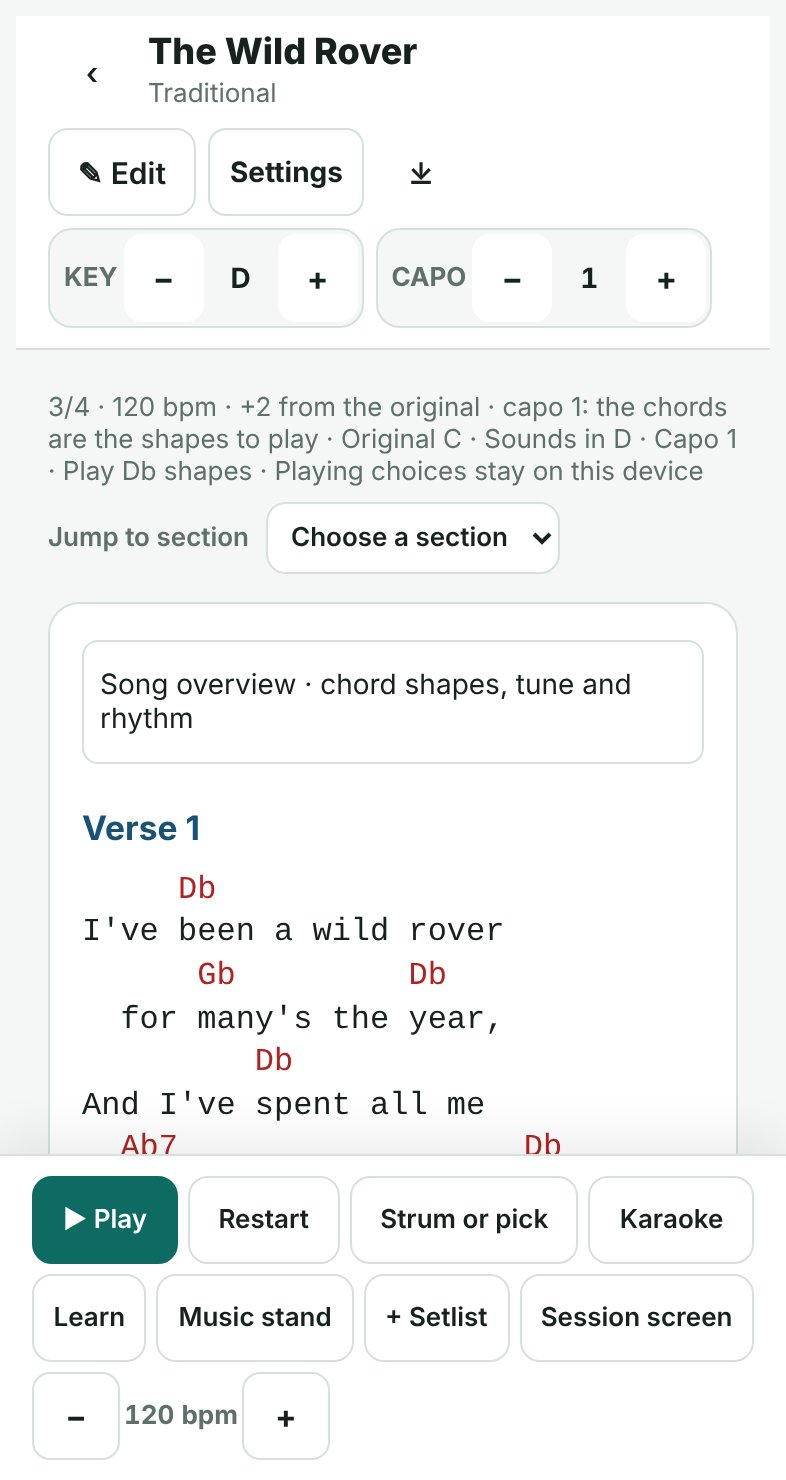
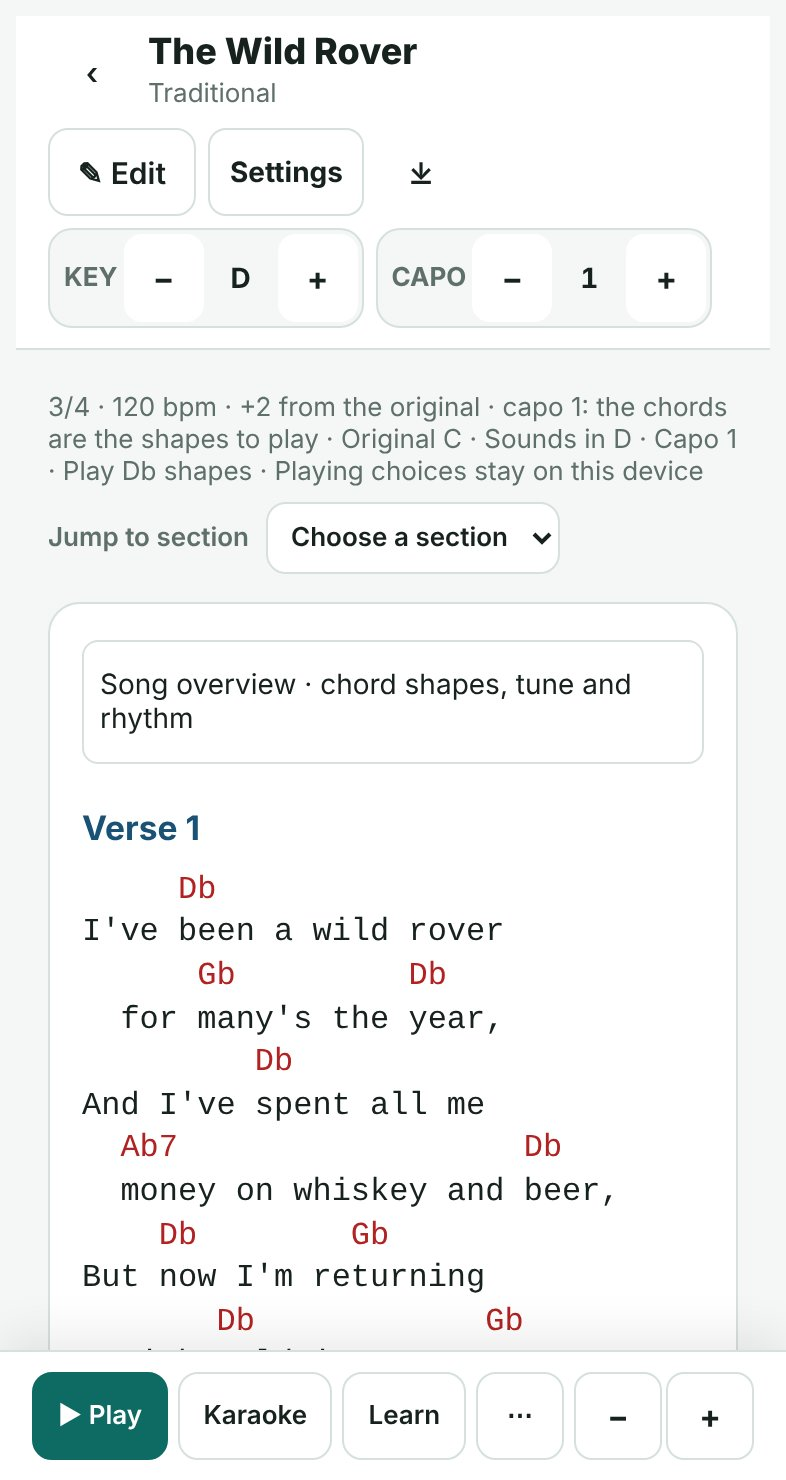
v4.99.11: web player: one row of play buttons on a phone; Repeat a section; offline note
Claude-Session: https://claude.ai/code/session_01UbrCRY8oACMXjLtCFCbaus

Changed region(s): [[0.0305, 0.777, 0.9466, 0.9946], [0.7023, 0.9324, 0.7328, 0.9635], [0.5802, 0.9324, 0.6107, 0.9635]]

diff --git a/web/app.html b/web/app.html
@@ -178,6 +178,7 @@ button { cursor: pointer; }
 .lib-more > summary::-webkit-details-marker { display: none; }
 .lib-more-items { position: absolute; z-index: 30; top: calc(100% + 6px); left: 0; display: flex; flex-direction: column; gap: 6px; padding: 8px; min-width: 230px; background: var(--surface); border: 1px solid var(--line); border-radius: 14px; box-shadow: 0 10px 30px rgba(0,0,0,.18); }
 .lib-more-items .btn { justify-content: flex-start; width: 100%; box-sizing: border-box; }
+.lib-more-note { margin: 2px 4px 0; font-size: 13px; color: var(--muted); max-width: 240px; }
 .library:has(#instrumentAsk:not([hidden])) .my-instrument { display: none; } /* asked once, not twice */
 .app-settings { max-width: 560px; }
 .app-settings #displaySettings { margin: 10px 0; }
@@ -402,12 +403,24 @@ dialog h2 { margin: 0 0 8px; font-size: 20px; }
   .practice-stage { padding: 16px 12px; }
 }
 
-/* a phone: the buttons on one row, the chord now and the tempo below (with Learn, they didn't fit) */
+/* 4.99.11: a phone: one row (Play, Karaoke, Learn, ⋯ and the tempo); ⋯ shows Restart, Music stand,
+   + Setlist and the rest on a second row. On a bigger screen ⋯ isn't needed: everything fits */
+#playerMore { display: none; }
+.player-extras { display: flex; flex-wrap: wrap; gap: 8px; padding-block: 8px 0; }
+.player-extras[hidden] { display: none; }
+.player-extras > .btn { flex: 1 1 auto; }
 @media (max-width: 600px) {
-  .player-row { flex-wrap: wrap; row-gap: 8px; }
-  .player-row > .btn { flex: 1 1 auto; padding-inline: 10px; }
+  .player-row { flex-wrap: nowrap; row-gap: 8px; }
+  .player-row > .btn { flex: 1 1 auto; padding-inline: 8px; min-width: 0; }
   .player-row .now { flex: 1 1 60%; }
+  #playerMore { display: inline-flex; flex: none; justify-content: center; }
+  #playerMore[aria-expanded="true"] { background: var(--ink); color: var(--surface); }
+  .player-row > .player-extra { display: none; }
+  .player:not(.active) .tempo .val { display: none; }
+  .player.active #playerMore { display: none; }
 }
+.section-repeat { display: inline-flex; align-items: center; gap: 6px; margin: 0 0 14px 10px; font-size: 13px; font-weight: 600; color: var(--muted); }
+.section-repeat[hidden] { display: none; }
 @media (max-width: 420px) {
   .now-chord { font-size: 28px; }
   #libTitle { font-size: 24px; }
@@ -497,6 +510,7 @@ dialog h2 { margin: 0 0 8px; font-size: 20px; }
           <label class="btn" for="updateInput" title="Song files (ukemusic, ChordPro, or chords above the words), a zipped songs folder, or a backup">Add songs from files…</label>
           <button id="cloudBtn" class="btn" type="button" hidden title="Keep your songs in Dropbox, in the desktop app's songs folder: changes here go there, and changes there come here">Dropbox…</button>
           <button id="backupBtn" class="btn" type="button" title="Every song in one file, to keep somewhere safe (iCloud Drive, Google Drive, your computer) and to bring changes back into the desktop app">Back up all songs</button>
+          <p id="offlineNote" class="lib-more-note" hidden></p>
         </div></details>
         <input id="updateInput" type="file" multiple hidden>
       </div>
@@ -560,7 +574,7 @@ dialog h2 { margin: 0 0 8px; font-size: 20px; }
     </header>
 
     <main id="songPanel" class="panel gutter">
-      <p id="songMeta" class="song-meta"></p><label class="section-jump" data-feature="sectionJump">Jump to section <select id="sectionJump"><option value="">Choose a section</option></select></label><button id="playHere" class="btn" type="button" hidden>Play from here</button>
+      <p id="songMeta" class="song-meta"></p><label class="section-jump" data-feature="sectionJump">Jump to section <select id="sectionJump"><option value="">Choose a section</option></select></label><label id="sectionRepeatRow" class="section-repeat" data-feature="sectionJump" hidden title="Play only this section, round and round, until you press Stop"><input id="sectionRepeat" type="checkbox"> Repeat it</label><button id="playHere" class="btn" type="button" hidden>Play from here</button>
       <div id="sheet" class="sheet"></div>
     </main>
 
@@ -568,14 +582,16 @@ dialog h2 { margin: 0 0 8px; font-size: 20px; }
       <div class="gutter">
         <div class="player-row">
           <button id="playBtn" data-feature="play" class="btn primary" type="button">▶ Play</button>
-          <button id="restartBtn" data-feature="restart" class="btn" type="button">Restart</button><button id="stopBtn" class="btn" type="button" hidden>Stop</button><button id="accompanimentBtn" data-feature="accompaniment" class="btn" type="button">Strum or pick</button><button id="karaokeButton" data-feature="karaoke" class="btn" type="button" title="Full screen, big words that light up as you sing, with the chord shapes">Karaoke</button>
+          <button id="restartBtn" data-feature="restart" class="btn player-extra" type="button">Restart</button><button id="stopBtn" class="btn" type="button" hidden>Stop</button><button id="accompanimentBtn" data-feature="accompaniment" class="btn player-extra" type="button">Strum or pick</button><button id="karaokeButton" data-feature="karaoke" class="btn" type="button" title="Full screen, big words that light up as you sing, with the chord shapes">Karaoke</button>
           <button id="learnBtn" data-feature="learn" class="btn" type="button" title="Learn the song by heart: play from memory, a quiz on the changes, the learn sheet, its chord patterns and the circle of fifths">Learn</button>
-          <button id="standBtn" data-feature="musicStand" class="btn" type="button" title="Music stand: the song full screen at one steady size, for reading from an iPad on a stand. Tap the right half for the next page or song, the left half to go back, the top for the menu. It goes through the songs as listed in your library.">Music stand</button>
-          <button id="addToSetlistBtn" data-feature="setlists" class="btn" type="button" title="Put this song in a setlist (the songs for a gig, in order): then Music stand goes through them">+ Setlist</button>
-          <button id="sessionBtn" data-feature="session" class="btn" type="button" title="Session screen: the whole song on one screen for a group to play from (a TV or projector). Arrow keys, a clicker or a tap go to the next song in the list">Session screen</button>
+          <button id="standBtn" data-feature="musicStand" class="btn player-extra" type="button" title="Music stand: the song full screen at one steady size, for reading from an iPad on a stand. Tap the right half for the next page or song, the left half to go back, the top for the menu. It goes through the songs as listed in your library.">Music stand</button>
+          <button id="addToSetlistBtn" data-feature="setlists" class="btn player-extra" type="button" title="Put this song in a setlist (the songs for a gig, in order): then Music stand goes through them">+ Setlist</button>
+          <button id="sessionBtn" data-feature="session" class="btn player-extra" type="button" title="Session screen: the whole song on one screen for a group to play from (a TV or projector). Arrow keys, a clicker or a tap go to the next song in the list">Session screen</button>
+          <button id="playerMore" data-feature="play" class="btn icon" type="button" aria-expanded="false" aria-label="More: Restart, Music stand, + Setlist" title="More: Restart, Music stand, + Setlist">⋯</button>
           <div class="now"><div id="nowChord" class="now-chord"></div><div id="nowShapes" class="now-shapes"></div></div>
           <div class="tempo" data-feature="tempo"><button id="slower" type="button" aria-label="Slower">−</button><span id="tempoVal" class="val"></span><button id="faster" type="button" aria-label="Faster">+</button></div>
         </div>
+        <div id="playerExtras" class="player-extras" hidden></div>
         <div id="strip" class="strip" aria-hidden="true"></div>
         <div id="status" class="status"></div>
       </div>
@@ -1749,6 +1765,19 @@ window.__k = { learnOpts: () => (karaokeView.learn ? karaokeView.learn.opts : nu
   $('appAbout').addEventListener('click', () => { $('appSettingsDialog').close(); $('aboutBtn').click(); });
   // the library's More ▾ closes when something in it is chosen, or on a click elsewhere
   $('libMore').addEventListener('click', (e) => { if (e.target.closest('.lib-more-items .btn')) $('libMore').open = false; });
+  // 4.99.11: one line under More: whether the web player works offline here (its service worker is
+  // looking after this page), so no one has to wonder
+  $('libMore').addEventListener('toggle', () => {
+    if (!$('libMore').open) return;
+    const sw = 'serviceWorker' in navigator ? navigator.serviceWorker : null;
+    $('offlineNote').hidden = true;
+    if (!sw) return;
+    sw.getRegistration().then((reg) => {
+      if (!reg) return;   // not where it's kept for offline (a preview, a file)
+      $('offlineNote').textContent = sw.controller ? '✓ Works offline on this device: your songs, playing and Free Practice.' : 'Open it once more while online, and it works offline here too.';
+      $('offlineNote').hidden = false;
+    }, () => {});
+  });
   document.addEventListener('click', (e) => { if (!e.target.closest('#libMore')) $('libMore').open = false; });
   $('featuresBtn').addEventListener('click', () => { $('featuresTable').innerHTML = F.tableHtml('web', look.featureLevels || {}); $('featuresDialog').showModal(); });
   $('featuresClose').addEventListener('click', () => $('featuresDialog').close());
@@ -2791,7 +2820,10 @@ ${SHEET_CSS_TEXT}${stageCss}${stage ? STAGE_CSS : ''}.shorthand-key{margin-top:1
   // while it plays) carries straight on.
   async function start(fromLine = 0, { countIn = true } = {}) {
     if (!player) { $('status').textContent = 'Sound isn’t available in this browser.'; return; }
-    const schedule = U.buildSchedule(currentIr(), { ...scheduleOptions(countIn), startLine: fromLine });
+    const range = repeatRange();   // 4.99.11: Repeat it
+    if (range) fromLine = range.from;
+    play.repeat = range;
+    const schedule = U.buildSchedule(currentIr(), { ...scheduleOptions(countIn), startLine: fromLine, ...(range && range.to ? { endLine: range.to } : {}) });
     if (!schedule.bars.length) { $('status').textContent = 'Nothing to play: the song has no chords.'; return; }
     play.schedule = schedule;
     // 4.45: the words' timing (as karaoke has it), to colour them as they're sung
@@ -2802,6 +2834,7 @@ ${SHEET_CSS_TEXT}${stageCss}${stage ? STAGE_CSS : ''}.shorthand-key{margin-top:1
     player.setSound(soundFor(prefs().instrument));
     $('playBtn').textContent = 'Pause';
     $('player').classList.add('active'); $('stopBtn').hidden = false;
+    showPlayerExtras(false);
     $('status').textContent = schedule.countInDuration ? 'Count-in…' : '';
     play.wake = null;
     try { navigator.wakeLock?.request('screen').then((w) => { play.wake = w; }, () => {}); } catch (_e) { /* the screen may sleep */ }
@@ -2829,7 +2862,9 @@ ${SHEET_CSS_TEXT}${stageCss}${stage ? STAGE_CSS : ''}.shorthand-key{margin-top:1
     try { play.wake?.release(); } catch (_e) { /* fine */ }
     play.wake = null;
     if (!play.userStopped && play.schedule) $('status').textContent = 'The end. Play to go again.';
+    const again = !play.userStopped && play.schedule && play.repeat && repeatRange();
     play.schedule = null;
+    if (again) { $('status').textContent = 'Round again…'; setTimeout(() => { if (!play.schedule) start(again.from, { countIn: false }); }, 60); }   // 4.99.11: Repeat it
   }
   function stop() {
     play.userStopped = true;
@@ -2852,6 +2887,19 @@ ${SHEET_CSS_TEXT}${stageCss}${stage ? STAGE_CSS : ''}.shorthand-key{margin-top:1
     } catch (error) { toast(error.message); }
   });
   $('stopBtn').addEventListener('click', () => { stop(); showFirstChords(); });
+  // 4.99.11: ⋯ on a phone: the rest of the player's buttons, on a second row
+  // (they move to a row of their own below, and back to their places when it closes)
+  const extraPlaces = [...$('player').querySelectorAll('.player-extra')].map((b) => { const mark = document.createComment(b.id); b.before(mark); return [b, mark]; });
+  function showPlayerExtras(on) {
+    $('player').classList.toggle('extras-open', on);
+    $('playerMore').setAttribute('aria-expanded', on ? 'true' : 'false');
+    if (on) $('playerExtras').append(...extraPlaces.map(([b]) => b));
+    else for (const [b, mark] of extraPlaces) mark.after(b);
+    $('playerExtras').hidden = !on;
+  }
+  matchMedia('(max-width: 600px)').addEventListener('change', (e) => { if (!e.matches) showPlayerExtras(false); });
+  $('playerMore').addEventListener('click', () => showPlayerExtras(!$('player').classList.contains('extras-open')));
+  for (const b of $('player').querySelectorAll('.player-extra')) b.addEventListener('click', () => showPlayerExtras(false));
   $('restartBtn').addEventListener('click', () => { stop(); start(0); });
   $('playHere').addEventListener('click', () => { stop(); start(play.selectedLine || 0); });
   function selectLine(group) {
@@ -2869,6 +2917,22 @@ ${SHEET_CSS_TEXT}${stageCss}${stage ? STAGE_CSS : ''}.shorthand-key{margin-top:1
   $('sectionJump').addEventListener('change', () => {
     const group = $('sheet').querySelector('[data-line="' + $('sectionJump').value + '"]');
     if (group) { selectLine(group); group.scrollIntoView({block:'center'}); group.focus({preventScroll:true}); }
+    $('sectionRepeatRow').hidden = !group;
+    if (!group) $('sectionRepeat').checked = false;
+    else if ($('sectionRepeat').checked) { stop(); start(play.selectedLine || 0); }
+  });
+  // 4.99.11: Repeat it: the section chosen in Jump to section, round and round until Stop (as the
+  // desktop's Loop current section). Its lines: from its first line to the line before the next section.
+  function repeatRange() {
+    if (!$('sectionRepeat').checked || $('sectionRepeatRow').hidden) return null;
+    const from = Number($('sectionJump').value);
+    if (!from) return null;
+    const starts = [...$('sectionJump').options].map((o) => Number(o.value)).filter((n) => n > from).sort((a, b) => a - b);
+    return { from, to: starts.length ? starts[0] - 1 : 0 };
+  }
+  $('sectionRepeat').addEventListener('change', () => {
+    if ($('sectionRepeat').checked) { const r = repeatRange(); if (r) { play.selectedLine = r.from; $('playHere').textContent = 'Play this section'; } }
+    if (player?.playing && play.schedule) { stop(); setTimeout(() => start(play.selectedLine || 0), 80); }
   });
   function tick() {
     const schedule = play.schedule;

diff --git a/site/index.html b/site/index.html
@@ -46,7 +46,7 @@
     {
       "@type": "WebApplication",
       "@id": "https://markbeachill.github.io/ukemusic/app/#webapp",
-      "featureList": ["Paste a chord sheet from any website","Import ChordPro files, or a whole songbook folder","AI prompts for difficult sheets and PDFs","Public-domain songs to start with, ready to play","A simple view to start with; all features when you want them","A song opens as the sheet to play from; ✎ Edit words & chords to change it, or write your own","Drag a chord to the right word on the sheet: Edit chords on the sheet (while editing: the Write tab, or right-click the sheet)","Find songs by title, artist, tag or key","It plays along with you: the chords and the strum, or picking","Karaoke: the words light up as it plays","Any key, with a capo; slower or faster","The tune, shown as notes and played","Real recordings: a ukulele, and a nylon-string guitar for baritone and guitar","A strum library of 27 strums, with how to play each; build your own and keep it in My strums","Play from memory, with fewer chords each time","Quizzes on the changes and the chord numbers","A learn sheet to print","Practise this song: a plan from the song itself (its shapes, its hardest changes, its strum, its chords in order)","42 exercises: warm-ups, chords, strumming, picking, scales, improvising","Routines, and your progress (days, best tempos, scores)","Progressions from memory, major and minor","Learn a strum in steps: hear it, copy it muted, on one chord, then with the changes","Chords by key, a sheet to print","Chord sheets with chord diagrams","Stage copies to print: big and easy to read at a gig","Pick sheets: tab for fingerpicking","Easy-to-read text for low vision (Atkinson Hyperlegible)","ChordPro, web page and lyrics files","Your club's logo and an \"Updated\" date on sheets","Music stand: read song after song on an iPad or laptop, a tap to turn the page","One steady text size, chords above the words: pages, never smaller text","A Bluetooth page-turner pedal, or the arrow keys","Setlists: the night's songs in order, for the Music stand, the Session screen or a songbook PDF","The Session screen: big words and chords for a group","Songs from the desktop to a phone or tablet, in one file","Ukulele (high or low G), baritone ukulele and guitar","Left-handed chord diagrams","Your ukulele shapes on a baritone (or baritone shapes on a ukulele): the names you know, and what each sounds as","Free and open source","Works offline","No account needed, no adverts","Your songs stay on your device","Share a songs folder between devices with Dropbox","Phones and tablets","Windows, Mac and Linux"],
+      "featureList": ["Paste a chord sheet from any website","Import ChordPro files, or a whole songbook folder","AI prompts for difficult sheets and PDFs","Public-domain songs to start with, ready to play","A simple view to start with; all features when you want them","A song opens as the sheet to play from; ✎ Edit words & chords to change it, or write your own","Drag a chord to the right word on the sheet: Edit chords on the sheet (while editing: the Write tab, or right-click the sheet)","Find songs by title, artist, tag or key","It plays along with you: the chords and the strum, or picking","Karaoke: the words light up as it plays","Any key, with a capo; slower or faster","The tune, shown as notes and played","Real recordings: a ukulele, and a nylon-string guitar for baritone and guitar","A strum library of 27 strums, with how to play each; build your own and keep it in My strums","Loop a part","Play from memory, with fewer chords each time","Quizzes on the changes and the chord numbers","A learn sheet to print","Practise this song: a plan from the song itself (its shapes, its hardest changes, its strum, its chords in order)","42 exercises: warm-ups, chords, strumming, picking, scales, improvising","Routines, and your progress (days, best tempos, scores)","Progressions from memory, major and minor","Learn a strum in steps: hear it, copy it muted, on one chord, then with the changes","Chords by key, a sheet to print","Chord sheets with chord diagrams","Stage copies to print: big and easy to read at a gig","Pick sheets: tab for fingerpicking","Easy-to-read text for low vision (Atkinson Hyperlegible)","ChordPro, web page and lyrics files","Your club's logo and an \"Updated\" date on sheets","Music stand: read song after song on an iPad or laptop, a tap to turn the page","One steady text size, chords above the words: pages, never smaller text","A Bluetooth page-turner pedal, or the arrow keys","Setlists: the night's songs in order, for the Music stand, the Session screen or a songbook PDF","The Session screen: big words and chords for a group","Songs from the desktop to a phone or tablet, in one file","Ukulele (high or low G), baritone ukulele and guitar","Left-handed chord diagrams","Your ukulele shapes on a baritone (or baritone shapes on a ukulele): the names you know, and what each sounds as","Free and open source","Works offline","No account needed, no adverts","Your songs stay on your device","Share a songs folder between devices with Dropbox","Phones and tablets","Windows, Mac and Linux"],
       "name": "ukemusic web player",
       "url": "https://markbeachill.github.io/ukemusic/app/",
       "applicationCategory": "EducationalApplication",
@@ -307,14 +307,14 @@ table.features tr.section a:hover { text-decoration: underline; }
 <div class="tone-blue"><h3><a href="phone.html">Free and private</a></h3><p>Open source, no adverts, works without the internet, and your songs stay on your device.</p></div>
 </div>
       <!-- features:end -->
-      <p class="f-both"><b>In your browser and on your computer.</b> <!-- adds -->The desktop app adds looping a part, a song kept in several keys, songbook PDFs of a setlist, every song exported at once, the Session screen on a second screen or TV and your own chord shapes.<!-- /adds --> <a href="features.html">Compare the two, feature by feature</a>.</p>
+      <p class="f-both"><b>In your browser and on your computer.</b> <!-- adds -->The desktop app adds a song kept in several keys, songbook PDFs of a setlist, every song exported at once, the Session screen on a second screen or TV and your own chord shapes.<!-- /adds --> <a href="features.html">Compare the two, feature by feature</a>.</p>
     </div>
   </section>
 
   <section id="choose">
     <div class="wrap">
       <h2>The web player and the desktop app</h2>
-      <p class="intro">Both are free. Start in the browser: there's nothing to install, and there are songs ready to play. <!-- adds -->The desktop app adds looping a part, a song kept in several keys, songbook PDFs of a setlist, every song exported at once, the Session screen on a second screen or TV and your own chord shapes.<!-- /adds --></p>
+      <p class="intro">Both are free. Start in the browser: there's nothing to install, and there are songs ready to play. <!-- adds -->The desktop app adds a song kept in several keys, songbook PDFs of a setlist, every song exported at once, the Session screen on a second screen or TV and your own chord shapes.<!-- /adds --></p>
       <div class="choose">
         <div class="card"><h3>The web player</h3><ul><li>Runs in any browser, on a phone, tablet or computer</li><li>Paste a chord sheet from any website, or play the public-domain songs</li><li>Play along, karaoke, learn by heart, the Music stand, the Session screen, Free Practice</li><li>Works offline once opened; no account</li></ul><a class="btn primary" href="app/">Try it in your browser</a></div>
         <div class="card"><h3>The desktop app</h3><ul><li>Windows, Mac and Linux; works offline</li><li>Your songs are files in a folder you choose</li><li>Songbook PDFs, a song kept in several keys, and every export</li><li>Everything the web player does, and more</li></ul><a class="btn" href="#get">Download for free</a></div>

diff --git a/test/v49911.test.js b/test/v49911.test.js
@@ -1,0 +1,47 @@
+// 4.99.11: the web player on a phone: one row (Play, Karaoke, Learn, ⋯, the tempo), the rest behind ⋯;
+// Jump to section → Repeat it (the web's Loop a part); More says whether it works offline here
+const assert = require('assert');
+const fs = require('fs');
+const path = require('path');
+const F = require('../web/features');
+const app = fs.readFileSync(path.join(__dirname, '..', 'web', 'app.html'), 'utf8').replace(/\r\n/g, '\n');
+let n = 0;
+const t = (name, fn) => { fn(); n++; };
+
+t('the player has ⋯, and the extras are marked to go behind it on a phone', () => {
+  assert.match(app, /<button id="playerMore" data-feature="play"/);
+  for (const id of ['restartBtn', 'accompanimentBtn', 'standBtn', 'addToSetlistBtn', 'sessionBtn']) {
+    assert.match(app, new RegExp(`<button id="${id}"[^>]*class="btn player-extra"`), id);
+  }
+  for (const id of ['playBtn', 'karaokeButton', 'learnBtn']) assert.doesNotMatch(app, new RegExp(`<button id="${id}"[^>]*player-extra`), id);
+  assert.match(app, /@media \(max-width: 600px\) \{\n  \.player-row \{ flex-wrap: nowrap;/);
+  assert.match(app, /<div id="playerExtras" class="player-extras" hidden><\/div>/);
+  assert.match(app, /function showPlayerExtras\(on\)/);
+});
+
+t('Repeat it plays the chosen section, round and round', () => {
+  assert.match(app, /<label id="sectionRepeatRow" class="section-repeat" data-feature="sectionJump" hidden/);
+  assert.match(app, /function repeatRange\(\)/);
+  assert.match(app, /endLine: range\.to/);
+  assert.match(app, /play\.repeat && repeatRange\(\)/);
+  const row = F.SECTIONS.flatMap((s) => s.rows).find((r) => r.f === 'Loop a part');
+  assert.strictEqual(row.web, true);
+  assert.doesNotMatch(F.desktopAdds(), /looping/);
+});
+
+t('the schedule plays only the section asked for', () => {
+  const { buildSchedule } = require('../src/playback-schedule');
+  const { parse } = require('../src/parser');
+  const ir = parse('[[Verse 1]]\n[C]one [F]two\n[[Verse 2]]\n[G]three [C]four\n[[Chorus]]\n[Am]five\n');
+  const lines = (s) => [...new Set(s.bars.filter((b) => !b.countIn).map((b) => b.line))];
+  const verse2 = lines(buildSchedule(ir, { startLine: 3, endLine: 4, countIn: false }));
+  assert.ok(verse2.length && verse2.every((l) => l >= 3 && l <= 4), String(verse2));
+});
+
+t('More says whether it works offline here', () => {
+  assert.match(app, /<p id="offlineNote" class="lib-more-note" hidden><\/p>/);
+  assert.match(app, /Works offline on this device/);
+  assert.match(app, /getRegistration\(\)/);
+});
+
+console.log(`v4.99.11: ${n} tests passed`);

diff --git a/test/v488.test.js b/test/v488.test.js
@@ -69,7 +69,7 @@ test('the desktop copy of Free Practice matches the web one', () => {
 // 4.88.1
 test('4.88.1: the web player counts in wherever Play starts (a tapped line too), but not on a restart mid-song', () => {
   const WEB = read('web/app.html');
-  assert.match(WEB, /async function start\(fromLine = 0, \{ countIn = true \} = \{\}\) \{\n[^\n]*\n\s*const schedule = U\.buildSchedule\(currentIr\(\), \{ \.\.\.scheduleOptions\(countIn\), startLine: fromLine \}\);/);
+  assert.match(WEB, /async function start\(fromLine = 0, \{ countIn = true \} = \{\}\) \{\n(?:[^\n]*\n){1,4}\s*const schedule = U\.buildSchedule\(currentIr\(\), \{ \.\.\.scheduleOptions\(countIn\), startLine: fromLine[ ,}]/);   // 4.99.11: Repeat it's lines before it
   assert.match(WEB, /setTimeout\(\(\) => start\(line, \{ countIn: false \}\), 80\);/);
   assert.ok(!/scheduleOptions\(fromLine === 0\)/.test(WEB));
   // the desktop counts in from any line already

diff --git a/test/v491.test.js b/test/v491.test.js
@@ -35,7 +35,7 @@ test('the way out is never hidden: ☰ Menu in the corner; Close named; the song
 test('setlists: in the simple view, and + Setlist on a song in the web player', () => {
   const { FEATURES } = require('../src/feature-levels');
   assert.strictEqual(FEATURES.find((f) => f.id === 'setlists').level, 'simple');
-  assert.match(WEB, /<button id="addToSetlistBtn" data-feature="setlists" class="btn" type="button"/);
+  assert.match(WEB, /<button id="addToSetlistBtn" data-feature="setlists" class="btn player-extra" type="button"/);
   assert.match(WEB, /<dialog id="addToSetlistDialog" class="setlist-dialog" aria-labelledby="addToSetlistTitle">/);
   assert.match(WEB, /if \(k >= 0\) lines\.splice\(k, 1\); else lines\.push\(\{ title: song\.title, shift: 0 \}\);/, 'in and out again');
   assert.match(WEB, /editSetlist\(null\); slEdit\.lines = \[\{ title: view\.song\.title, shift: 0 \}\];/, 'a new setlist with this song');

diff --git a/test/v489.test.js b/test/v489.test.js
@@ -48,7 +48,7 @@ test('taps: the right half on, the left half back, the top the bar (which hides 
 });
 
 test('web player: Music stand in the simple view, through the songs as listed; its size kept', () => {
-  assert.match(WEB, /<button id="standBtn" data-feature="musicStand" class="btn" type="button" title="Music stand:/);
+  assert.match(WEB, /<button id="standBtn" data-feature="musicStand" class="btn player-extra" type="button" title="Music stand:/);
   assert.match(WEB, /\$\('standBtn'\)\.addEventListener\('click', \(\) => openSession\(\{ stand: true \}\)\);/);
   assert.match(WEB, /if \(stand\) \{ if \(st\.bookPx && look\.standPx !== st\.bookPx\) \{ look\.standPx = st\.bookPx; local\.set\('look', look\); \} return; \}/, 'and not the Session screen\'s size');
   assert.match(WEB, /size: stand \? 'book' : \(look\.sessionSize \|\| 'fit'\)[^\n]*bookPx: look\.standPx \|\| 0, showTaps: stand && !look\.standSeen \}\);/);

diff --git a/src/feature-levels.js b/src/feature-levels.js
@@ -92,7 +92,7 @@
     { id: 'setPrint', app: 'desktop', where: 'Settings', name: 'Settings: fonts, colours and printing', level: 'all', grey: true },
     { id: 'setStage', app: 'desktop', where: 'Settings', name: 'Settings: Stage copies', level: 'all', grey: true },
     // ── Web player only ──
-    { id: 'sectionJump', app: 'web', where: 'the song page', name: 'Jump to section', level: 'all' },
+    { id: 'sectionJump', app: 'web', where: 'the song page', name: 'Jump to section, and Repeat it', level: 'all' },
     { id: 'playingReset', app: 'web', where: 'Settings', name: 'Reset playing choices', level: 'simple' },
     { id: 'restart', app: 'web', where: 'the player', name: 'Restart', level: 'simple' },
     { id: 'downloadMore', app: 'web', where: 'Download', name: 'More downloads: words only, ChordPro, club logo, date', level: 'all' },

diff --git a/test/v466.test.js b/test/v466.test.js
@@ -37,7 +37,8 @@ test('features: works offline and no account are features, and on the home page'
 
 test('features: what the web player lacks is marked, not hidden', () => {
   const rows = FEATURES.SECTIONS.flatMap((s) => s.rows);
-  for (const f of ['Loop a part', 'Songbook PDFs of a setlist, with a cover and contents']) assert.strictEqual(rows.find((r) => r.f === f).web, false, f);
+  for (const f of ['Songbook PDFs of a setlist, with a cover and contents'])   // 4.99.11: Loop a part is in the web player too (Repeat it)
+  assert.strictEqual(rows.find((r) => r.f === f).web, false, f);
   // 4.90: setlists are in the web player too
   assert.ok(FEATURES.featureList('web').some((f) => f.startsWith('Setlists')));
   assert.ok(FEATURES.featureList('desktop').some((f) => f.startsWith('Setlists')));

diff --git a/test/v442.test.js b/test/v442.test.js
@@ -34,8 +34,9 @@ test('the web player\'s learn sheet names the web player\'s menus', () => {
   assert.ok(require('../src/learn').learnSheetHtml({ title: 'T' }).includes(' (Learn → Changes)'), 'the text it replaces is still there');
 });
 
-test('on a phone the play bar wraps (Learn made it too wide)', () => {
-  assert.ok(/@media \(max-width: 600px\) \{\s*\.player-row \{ flex-wrap: wrap/.test(app));
+test('on a phone the play bar fits (4.99.11: one row, the rest behind ⋯)', () => {
+  assert.ok(/@media \(max-width: 600px\) \{\s*\.player-row \{ flex-wrap: nowrap/.test(app));
+  assert.ok(/\.player-row > \.player-extra \{ display: none; \}/.test(app));
 });
 
 // ── The website: a page for each purpose, Your songs, and the AI prompt ──

diff --git a/web/features.js b/web/features.js
@@ -33,7 +33,7 @@ const SECTIONS = [
       { f: 'The tune, shown as notes and played', web: true, desktop: true },
       { f: 'Real recordings: a ukulele, and a nylon-string guitar for baritone and guitar', web: true, desktop: true },
       { f: 'A strum library of 27 strums, with how to play each; build your own and keep it in My strums', web: true, desktop: true }, // 4.99.4
-      { f: 'Loop a part', web: false, desktop: true, adds: 'looping a part' },
+      { f: 'Loop a part', web: true, desktop: true },   // 4.99.11: Jump to section → Repeat it
       { f: 'Keep a song in several keys', web: false, desktop: true, adds: 'a song kept in several keys' }
     ]
   },

diff --git a/HANDOVER.md b/HANDOVER.md
@@ -909,6 +909,7 @@ Full description: **INSTRUMENTS.md** (users and developers).
 | 4.99.8 | Website, README and user guide catch up with 4.99: features listed, new pictures |
 | 4.99.9 | Practise a song: trouble spots first, Back a step, ends with Play it from memory |
 | 4.99.10 | Home page: what the desktop app adds is written from the features list; links straight to Amazing Grace and Free Practice |
+| 4.99.11 | Web player: phone player on one row (rest behind ⋯); Jump to section → Repeat it; offline note under More |
 | 4.53.0 (ribbon layout) | index.html ribbon rebuilt to one standard (`/* ── 4.53: the ribbon's layout ── */` at the end of the main style block): `.rib-group` = `.rib-items` (height `--rib-h`, 62px) over `.rib-label`; large `.rib-button`s; `.rib-col` = up to two rows of `--rib-row` (28px) small controls (`.rib-field`, `.rib-row`, `.rib-check`, `.rib-small`, `.rib-note`); a column whose fields have labels becomes a two-column grid (labels right-aligned, controls lined up). One setting in a group: no label (aria-label instead), the group names it. `.ribbon-panel` doesn't wrap: `foldRibbon()` folds groups from the right into generated `.rib-fold` buttons (`.rib-group.folded`, `.open` shows the group as a popover); runs on resize; `revealElement` opens a folded group. Own-setting mark moved to the group caption (`:has(.rib-own)`). Tab renamed Picking. `#writtenAccompaniment` goes in the strum column's second row. Tests: test/ribbon-layout.test.js. |
 | 4.53.0 | Ribbon buttons: content-sized (56px minimum, 88px usual maximum, 104px for long labels), top-aligned controls and retained icons when Play/Pause changes. File/Write use the requested short labels; Archive removed from File, Strums moved to native Help; This song renamed Song with its panel unchanged. `src/song-ui.js` shares `setControlLabel` and `memoryPlayLabel` across desktop/web. Learn labels describe chord visibility; “Play in new key”, “Practise trouble spots”, “Circle of fifths”; Pick “Choose picking” retains current-line insertion. Ribbon panels share one CSS grid row for stable height; inactive panels are invisible and inert. Section captions replace repeated upper labels; compact loop wording and Auto feel/Even selections retain existing values. The screenshot review checks equal header heights at 1440 and 1120px. Playback behaviour is unchanged. `test/song-ui-labels.test.js` covers labels, retained icons and targeted review arguments. UI review preserves the first app argument and supports section filters for iPad/iPhone as well as desktop. |
 | 2.5.0 | Initial release. Parser, HTML/Markdown renderers, Electron UI, CodeMirror, live preview, diagrams, tablature, INI config, editable stylesheet. |

diff --git a/docs/user-guide-phone.md b/docs/user-guide-phone.md
@@ -45,9 +45,10 @@ A song opens as the sheet to play from. From the top:
 
 - **‹** goes back to your songs. **✎ Edit** changes the song (see [Changing a song](#changing-a-song)). **Settings** has this song's playing choices; **⤓** downloads it (see [Downloading and printing](#downloading-and-printing)).
 - **Key** (**−** and **+**) moves the song up or down; **Capo** plays it with a capo and shows the shapes to finger.
-- **Jump to section** goes to a verse or chorus.
+- **Jump to section** goes to a verse or chorus. Tick **Repeat it** beside it, and **Play** plays that section round and round until **Stop**: for the part you keep getting wrong.
 - **Song overview** shows the song's chord shapes, its tune and its strum.
-- The **player** at the bottom: **Play**, **Restart**, **Strum or pick**, **Karaoke**, **Learn**, **Music stand**, **+ Setlist**, **Session screen**, and the tempo.
+- The **player** at the bottom, on one row: **Play**, **Karaoke**, **Learn**, **⋯** and the tempo (**−** and **+**). **⋯** shows the rest: **Restart**, **Strum or pick**, **Music stand**, **+ Setlist** and **Session screen**.
+- **More** (in your songs) says whether the web player works offline on this device.
 
 ![The key moved up a tone, with a capo on the first fret](../site/img/guide/iphone-S4.jpg)
 
